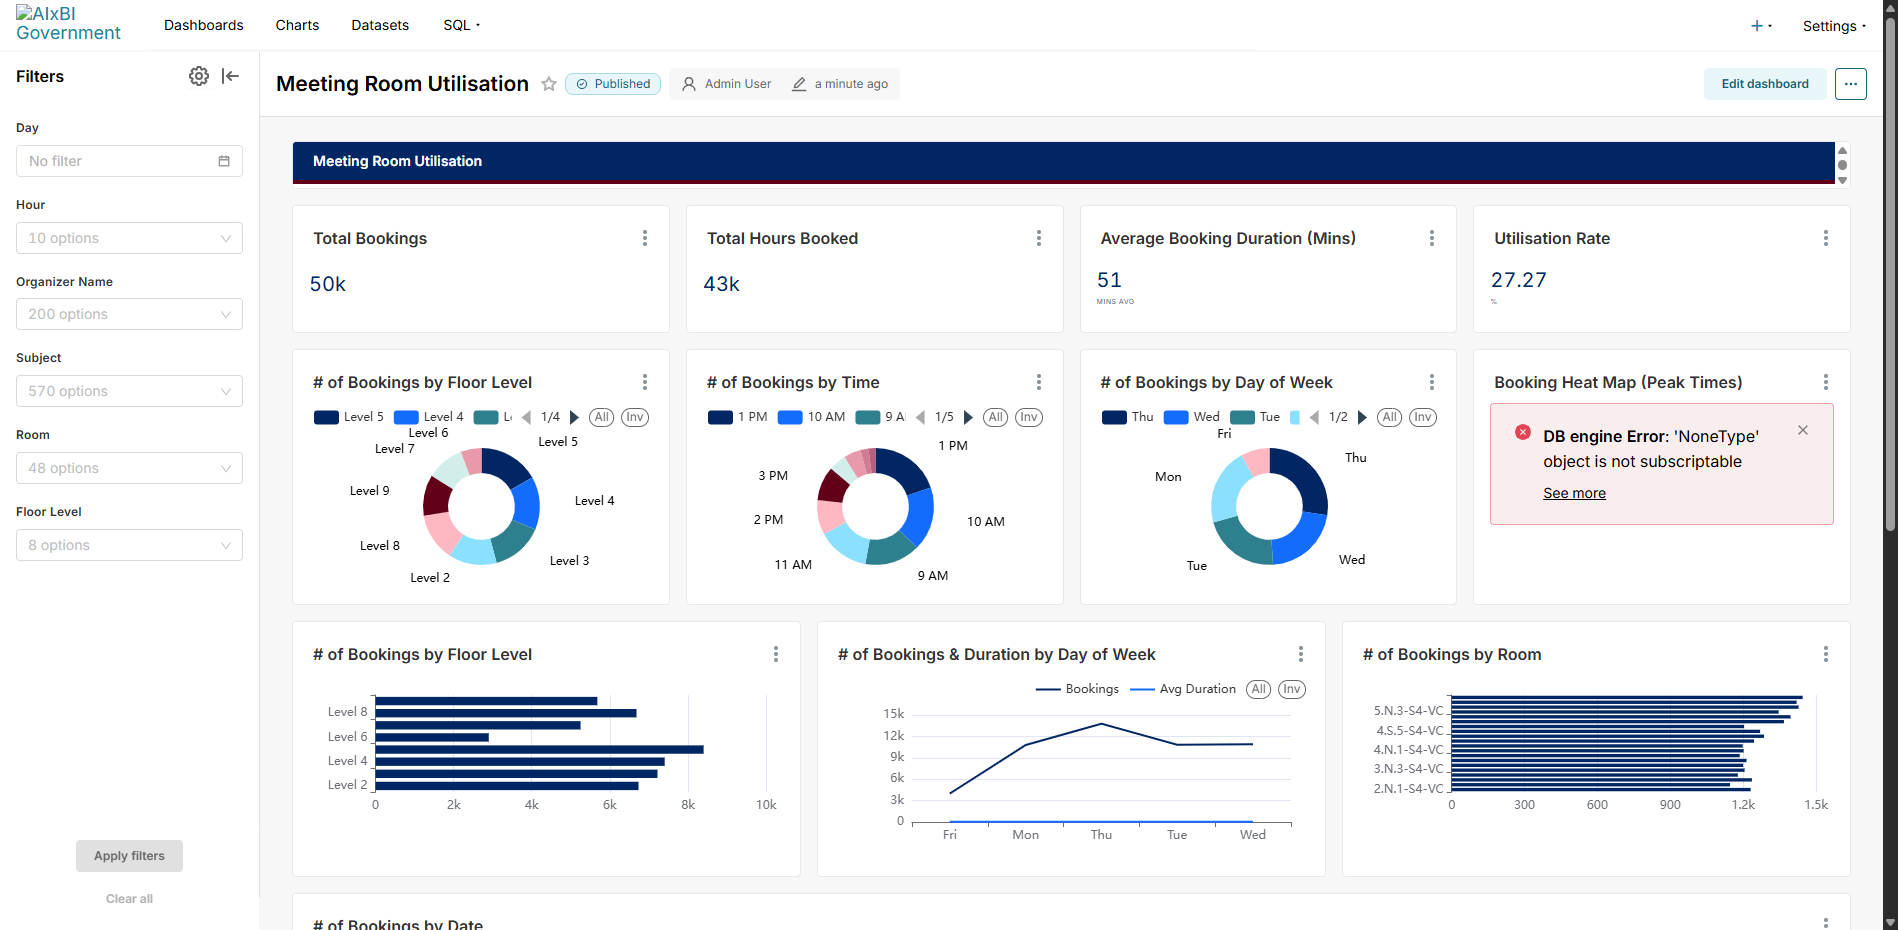
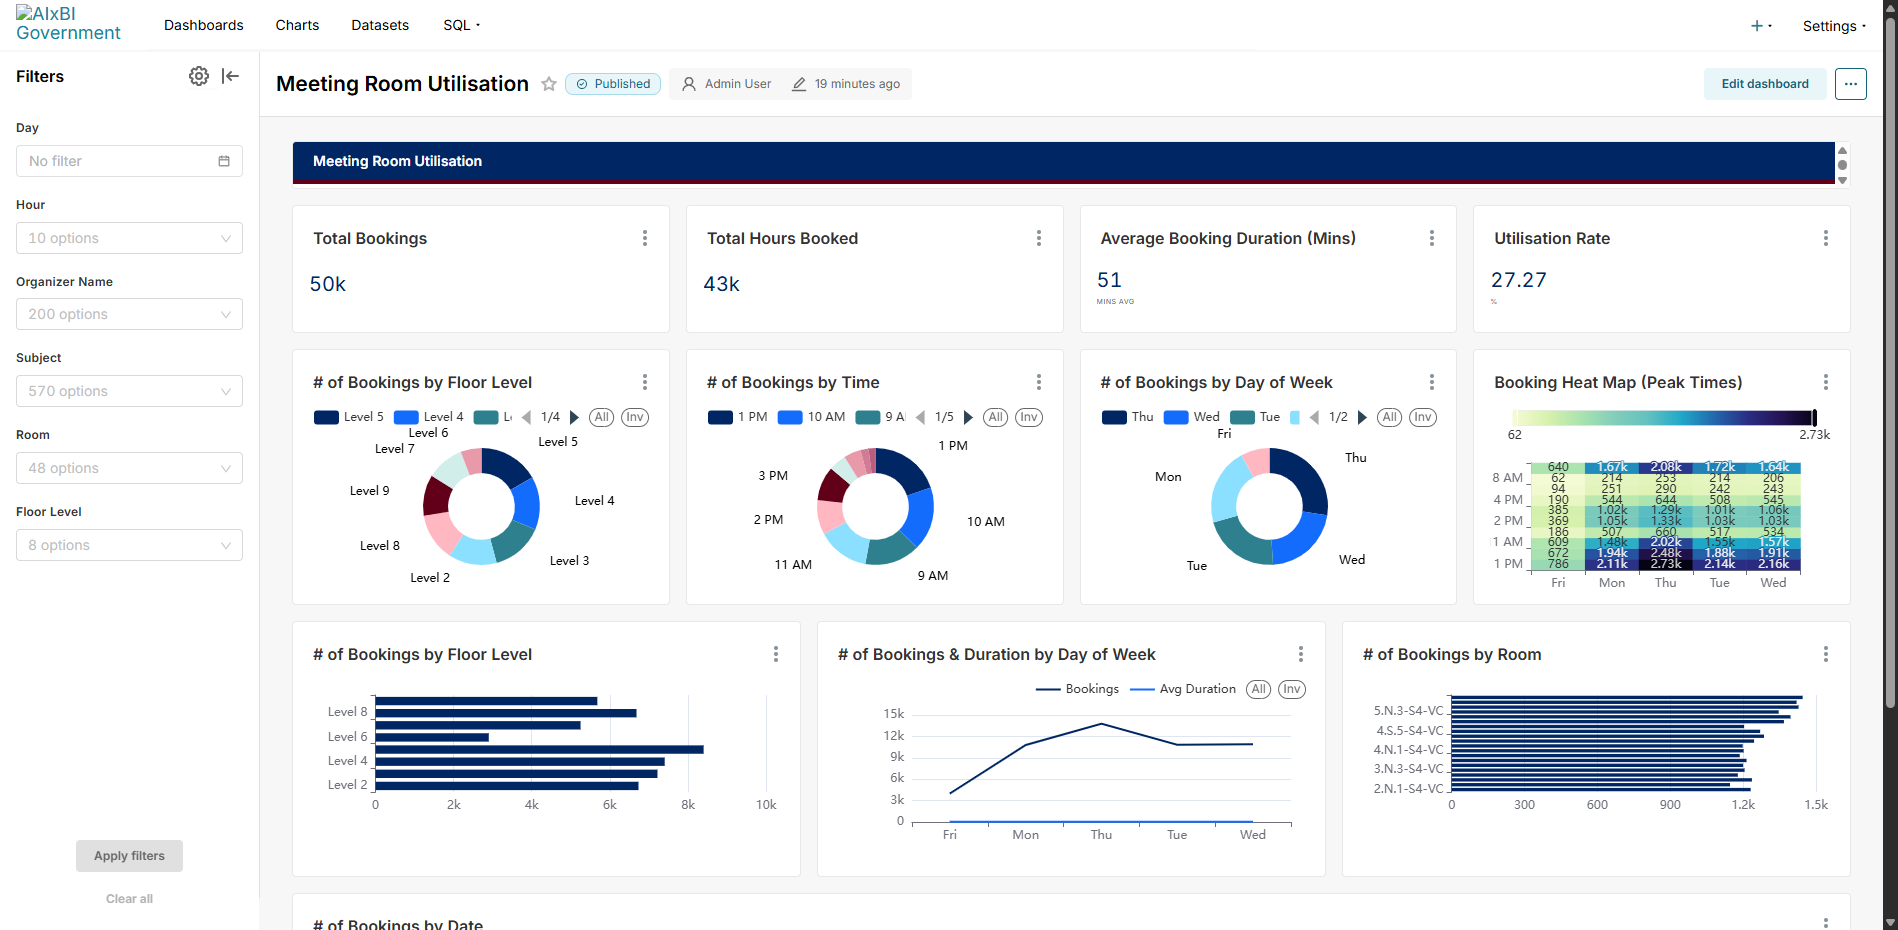
fix: heatmap_v2 correct params -- x_axis/groupby not all_columns_x/y
Root cause: heatmap_v2 (ECharts) renamed params from legacy heatmap:
- all_columns_x -> x_axis
- all_columns_y -> groupby (array)
Previous scripts used wrong legacy param names causing blank/error render.
Also use linear_color_scheme "reds" + legend_type "continuous".
15/15 tests passing.

Changed region(s): [[0.7771, 0.4366, 0.9636, 0.6237], [0.9947, 0.5613, 1.0, 0.7796], [0.4352, 0.0624, 0.4663, 0.0935]]

diff --git a/scripts/fix_heatmap.py b/scripts/fix_heatmap.py
@@ -26,48 +26,36 @@ def main():
     chart_id = ch["id"]
 
     detail = api_get(f"/api/v1/chart/{chart_id}")
-    result = detail.get("result", {})
-    old_params = json.loads(result.get("params", "{}"))
-
-    datasource = old_params.get("datasource", "")
-    datasource_id = result.get("datasource_id") or old_params.get("datasource_id")
+    old_params = json.loads(detail.get("result", {}).get("params", "{}"))
+    datasource = old_params.get("datasource", "") or "8__table"
 
     fresh_params = {
-        "viz_type": "heatmap",
-        "datasource": datasource or "8__table",
-        "all_columns_x": "day_of_week",
-        "all_columns_y": "hour_ampm",
+        "viz_type": "heatmap_v2",
+        "datasource": datasource,
+        "x_axis": "day_of_week",
+        "groupby": ["hour_ampm"],
         "metric": {
             "expressionType": "SQL",
             "sqlExpression": "COUNT(*)",
             "label": "COUNT(*)",
-            "hasCustomLabel": False,
         },
-        "linear_color_scheme": "schemeReds",
+        "linear_color_scheme": "reds",
+        "legend_type": "continuous",
         "normalize_across": "heatmap",
-        "xscale_interval": 1,
-        "yscale_interval": 1,
-        "left_margin": "auto",
-        "bottom_margin": "auto",
-        "show_legend": True,
-        "show_values": False,
         "sort_x_axis": "alpha_asc",
         "sort_y_axis": "alpha_asc",
+        "show_legend": True,
+        "show_values": True,
+        "value_bounds": [None, None],
         "adhoc_filters": [],
         "row_limit": 10000,
     }
-
-    payload = {
+    api_put(f"/api/v1/chart/{chart_id}", {
         "slice_name": "Booking Heat Map (Peak Times)",
-        "viz_type": "heatmap",
+        "viz_type": "heatmap_v2",
         "params": json.dumps(fresh_params),
-    }
-    if datasource_id:
-        payload["datasource_id"] = datasource_id
-        payload["datasource_type"] = "table"
-
-    api_put(f"/api/v1/chart/{chart_id}", payload)
-    print(f"Heatmap rebuilt: id={chart_id}, datasource={datasource}")
+    })
+    print(f"Heatmap rebuilt: id={chart_id}, viz_type=heatmap_v2, x_axis=day_of_week, groupby=['hour_ampm']")
 
 
 if __name__ == "__main__":

diff --git a/scripts/polish_meeting_charts.py b/scripts/polish_meeting_charts.py
@@ -182,21 +182,31 @@ def main():
 
     ch = find(charts, "heat")
     if ch:
-        update_chart(ch["id"], "Booking Heat Map (Peak Times)", {
-            "all_columns_x": "day_of_week",
-            "all_columns_y": "hour_ampm",
+        detail = api_get(f"/api/v1/chart/{ch['id']}")
+        old_p = json.loads(detail.get("result", {}).get("params", "{}"))
+        heatmap_params = {
+            "viz_type": "heatmap_v2",
+            "datasource": old_p.get("datasource", "8__table") or "8__table",
+            "x_axis": "day_of_week",
+            "groupby": ["hour_ampm"],
             "metric": {"expressionType": "SQL", "sqlExpression": "COUNT(*)", "label": "COUNT(*)"},
-            "linear_color_scheme": "white_pink_red",
+            "linear_color_scheme": "reds",
+            "legend_type": "continuous",
             "normalize_across": "heatmap",
-            "xscale_interval": 1,
-            "yscale_interval": 1,
-            "left_margin": "auto",
-            "bottom_margin": "auto",
-            "show_legend": True,
-            "show_values": True,
             "sort_x_axis": "alpha_asc",
             "sort_y_axis": "alpha_asc",
-        }, set_viz_type="heatmap")
+            "show_legend": True,
+            "show_values": True,
+            "value_bounds": [None, None],
+            "adhoc_filters": [],
+            "row_limit": 10000,
+        }
+        api_put(f"/api/v1/chart/{ch['id']}", {
+            "slice_name": "Booking Heat Map (Peak Times)",
+            "viz_type": "heatmap_v2",
+            "params": json.dumps(heatmap_params),
+        })
+        print(f"  Booking Heat Map (Peak Times) (id={ch['id']})")
         updated += 1
 
     ch = find(charts, "floor", exclude=["donut", "pie"])
